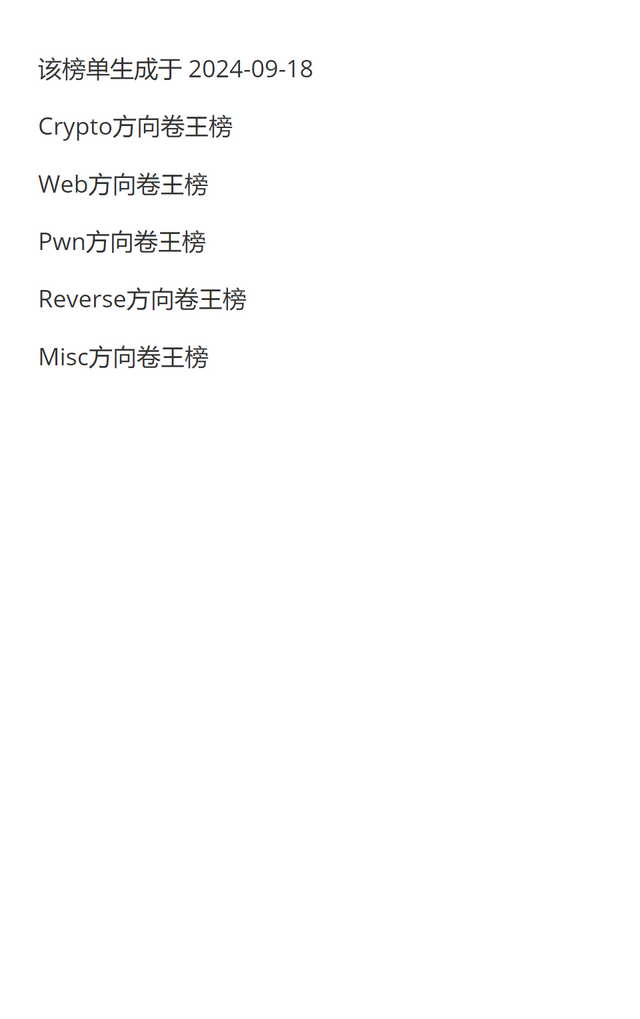
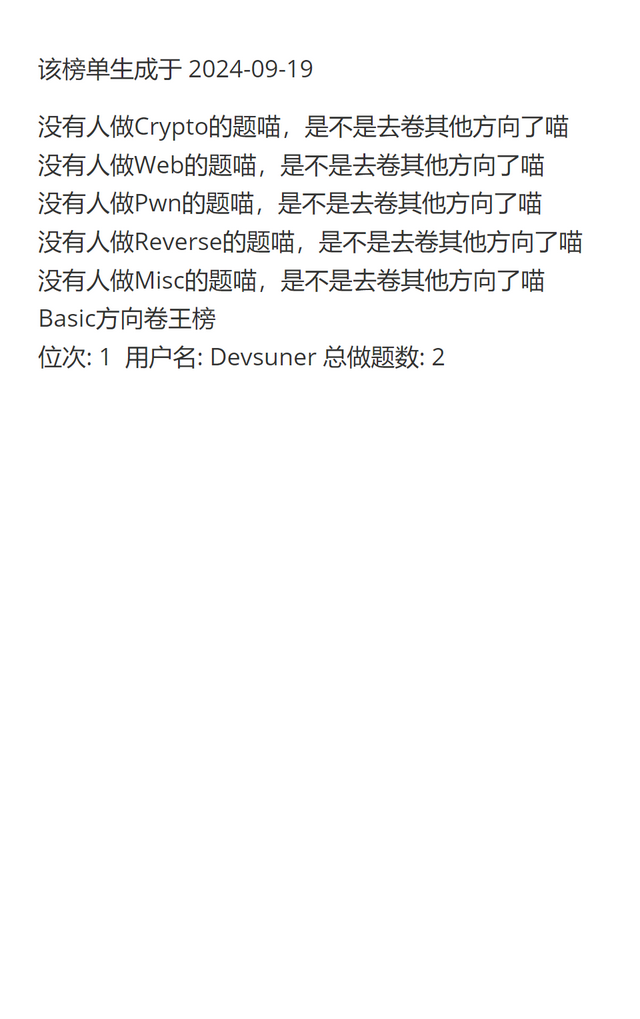
version1.2

Changed region(s): [[0.0625, 0.0608, 0.9062, 0.3651]]

diff --git a/get_new_data.py b/get_new_data.py
@@ -81,6 +81,9 @@ def read_from_file(filename):
         lines = []
         with open(filename, 'r', encoding='utf-8') as file:
             for line in file:
+                #过滤老登，只有七位的（算上换行符）才是新生
+                if len( line ) <= 6:
+                    continue
                 lines.append(line.strip())  # 去除每行末尾的换行符
         return lines
     except FileNotFoundError:
@@ -132,7 +135,8 @@ def solve_category( lines , category ):
 def main():
     input_filename = 'input.txt'  # 输入文件名
     output_filename = 'output.md'  # 输出文件名
-    categories = ['Crypto','Web','Pwn','Reverse','Misc']
+    #在这里输入需要统计的方向
+    categories = ['Crypto','Web','Pwn','Reverse','Misc','Basic']
     # 读取输入文件内容
     input_lines = read_from_file(input_filename)
     # 如果读取成功，写入输出文件
@@ -140,8 +144,14 @@ def main():
     if input_lines:
         for i in categories:
             print( i )
-            outputer += i + "方向卷王榜" + '\n'
-            outputer += str(solve_category(input_lines,i)) + '\n'
+            
+            add_string = str(solve_category(input_lines,i))
+            if add_string == '':
+                outputer += '没有人做' + i + '的题喵，是不是去卷其他方向了喵' + '\n'
+            else:
+                outputer += i + "方向卷王榜" + '\n'
+                outputer += add_string + '\n'
+
         write_to_file(output_filename, outputer)
 
 if __name__ == "__main__":

diff --git a/output.md b/output.md
@@ -1,12 +1,10 @@
-该榜单生成于 2024-09-18
+该榜单生成于 2024-09-19
 
-Crypto方向卷王榜
-
-Web方向卷王榜
-
-Pwn方向卷王榜
-
-Reverse方向卷王榜
-
-Misc方向卷王榜
+没有人做Crypto的题喵，是不是去卷其他方向了喵
+没有人做Web的题喵，是不是去卷其他方向了喵
+没有人做Pwn的题喵，是不是去卷其他方向了喵
+没有人做Reverse的题喵，是不是去卷其他方向了喵
+没有人做Misc的题喵，是不是去卷其他方向了喵
+Basic方向卷王榜
+位次: 1  用户名: Devsuner 总做题数: 2
 

diff --git a/README.md b/README.md
@@ -21,3 +21,13 @@
 - 新建了一个综合两次卷王榜进行差分的文件（但是里面的内容还没写）
 
 温馨提示：记得关代理（
+
+1.2 版本更新：
+
+- 更新了版本号
+
+- 特判了某个方向没人做题的情况
+
+- 新增过滤老登功能（可选开）
+
+  
